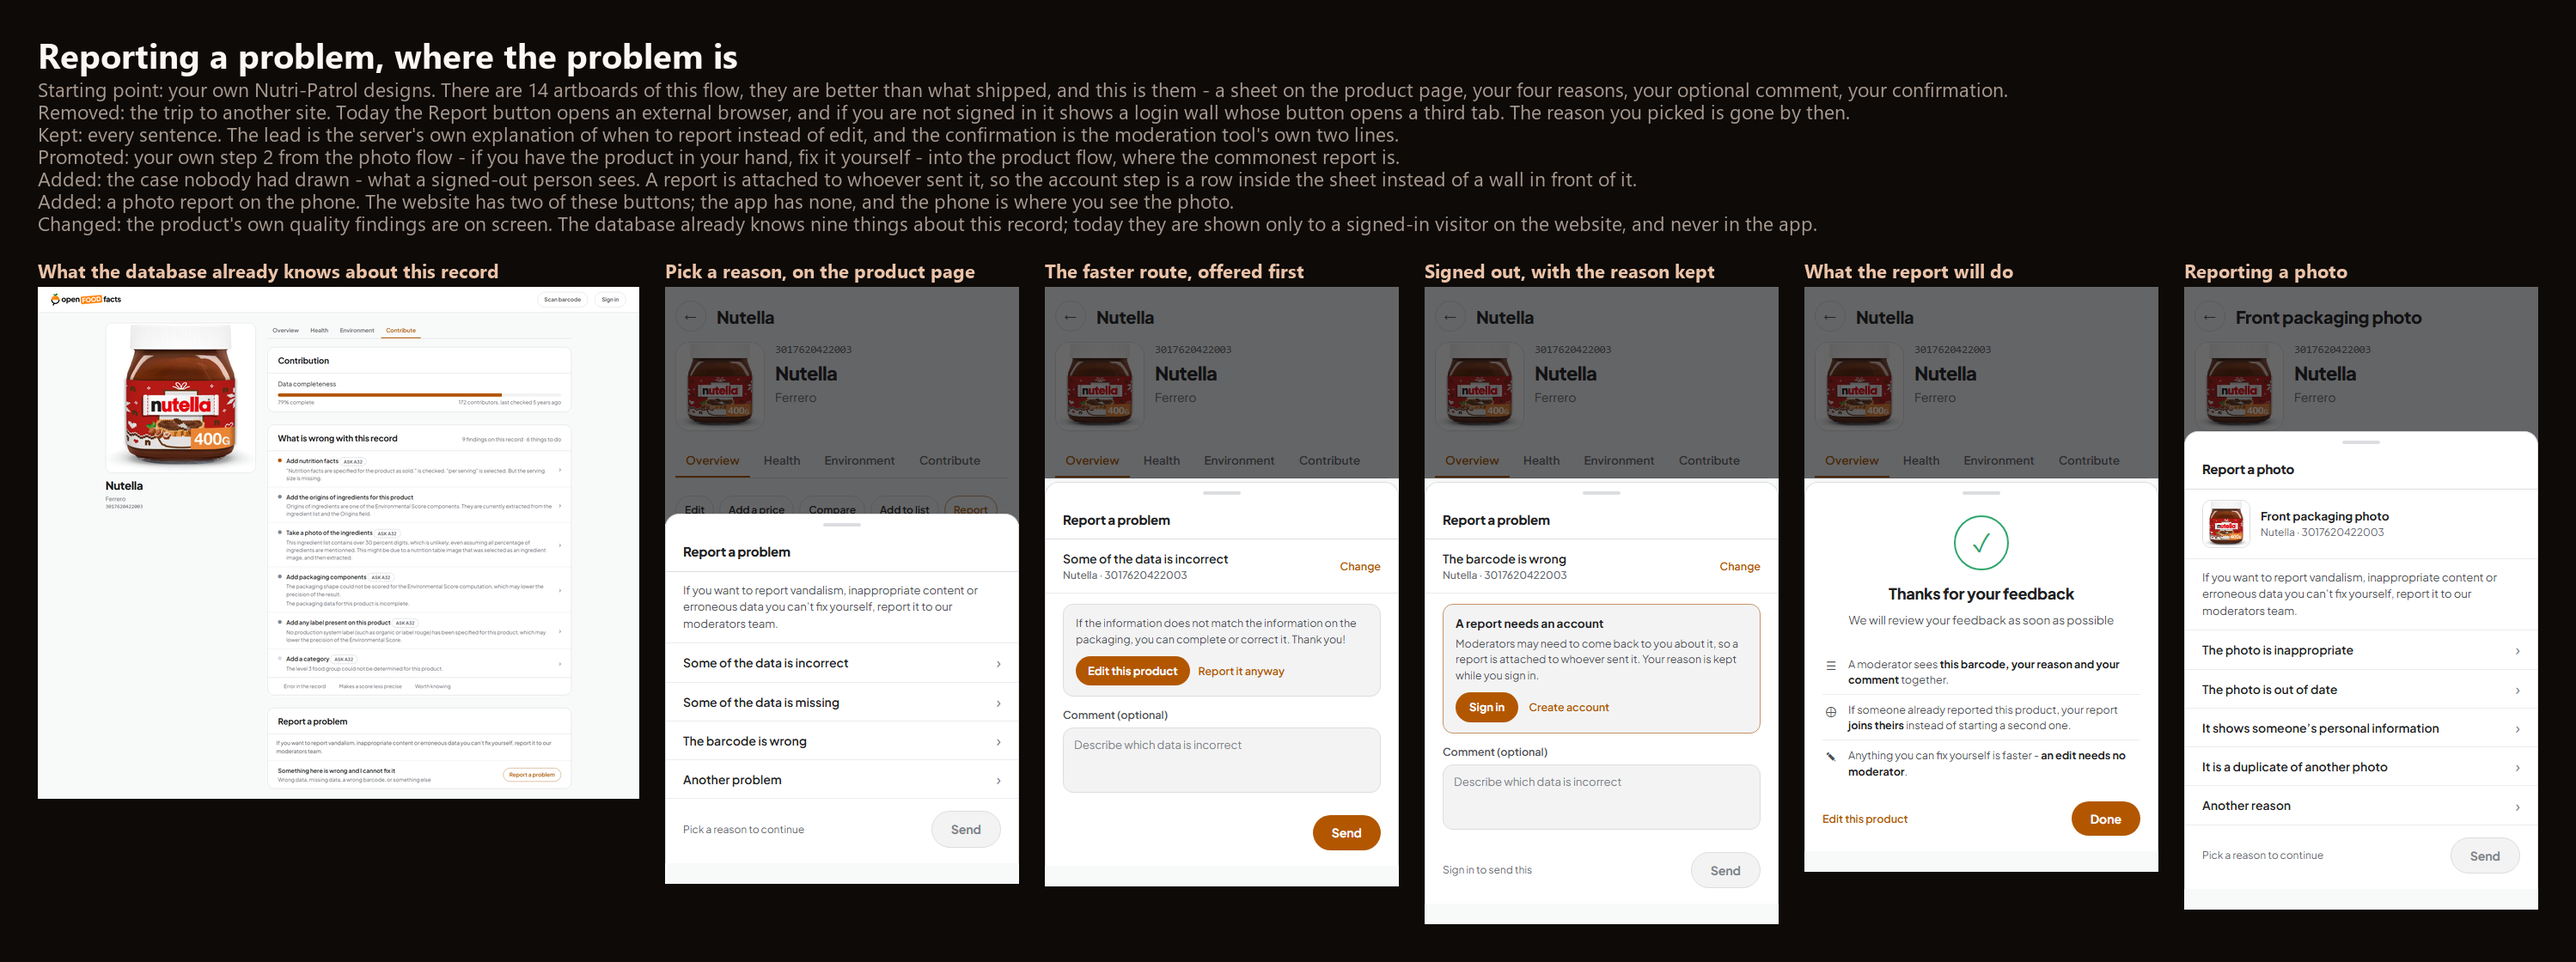
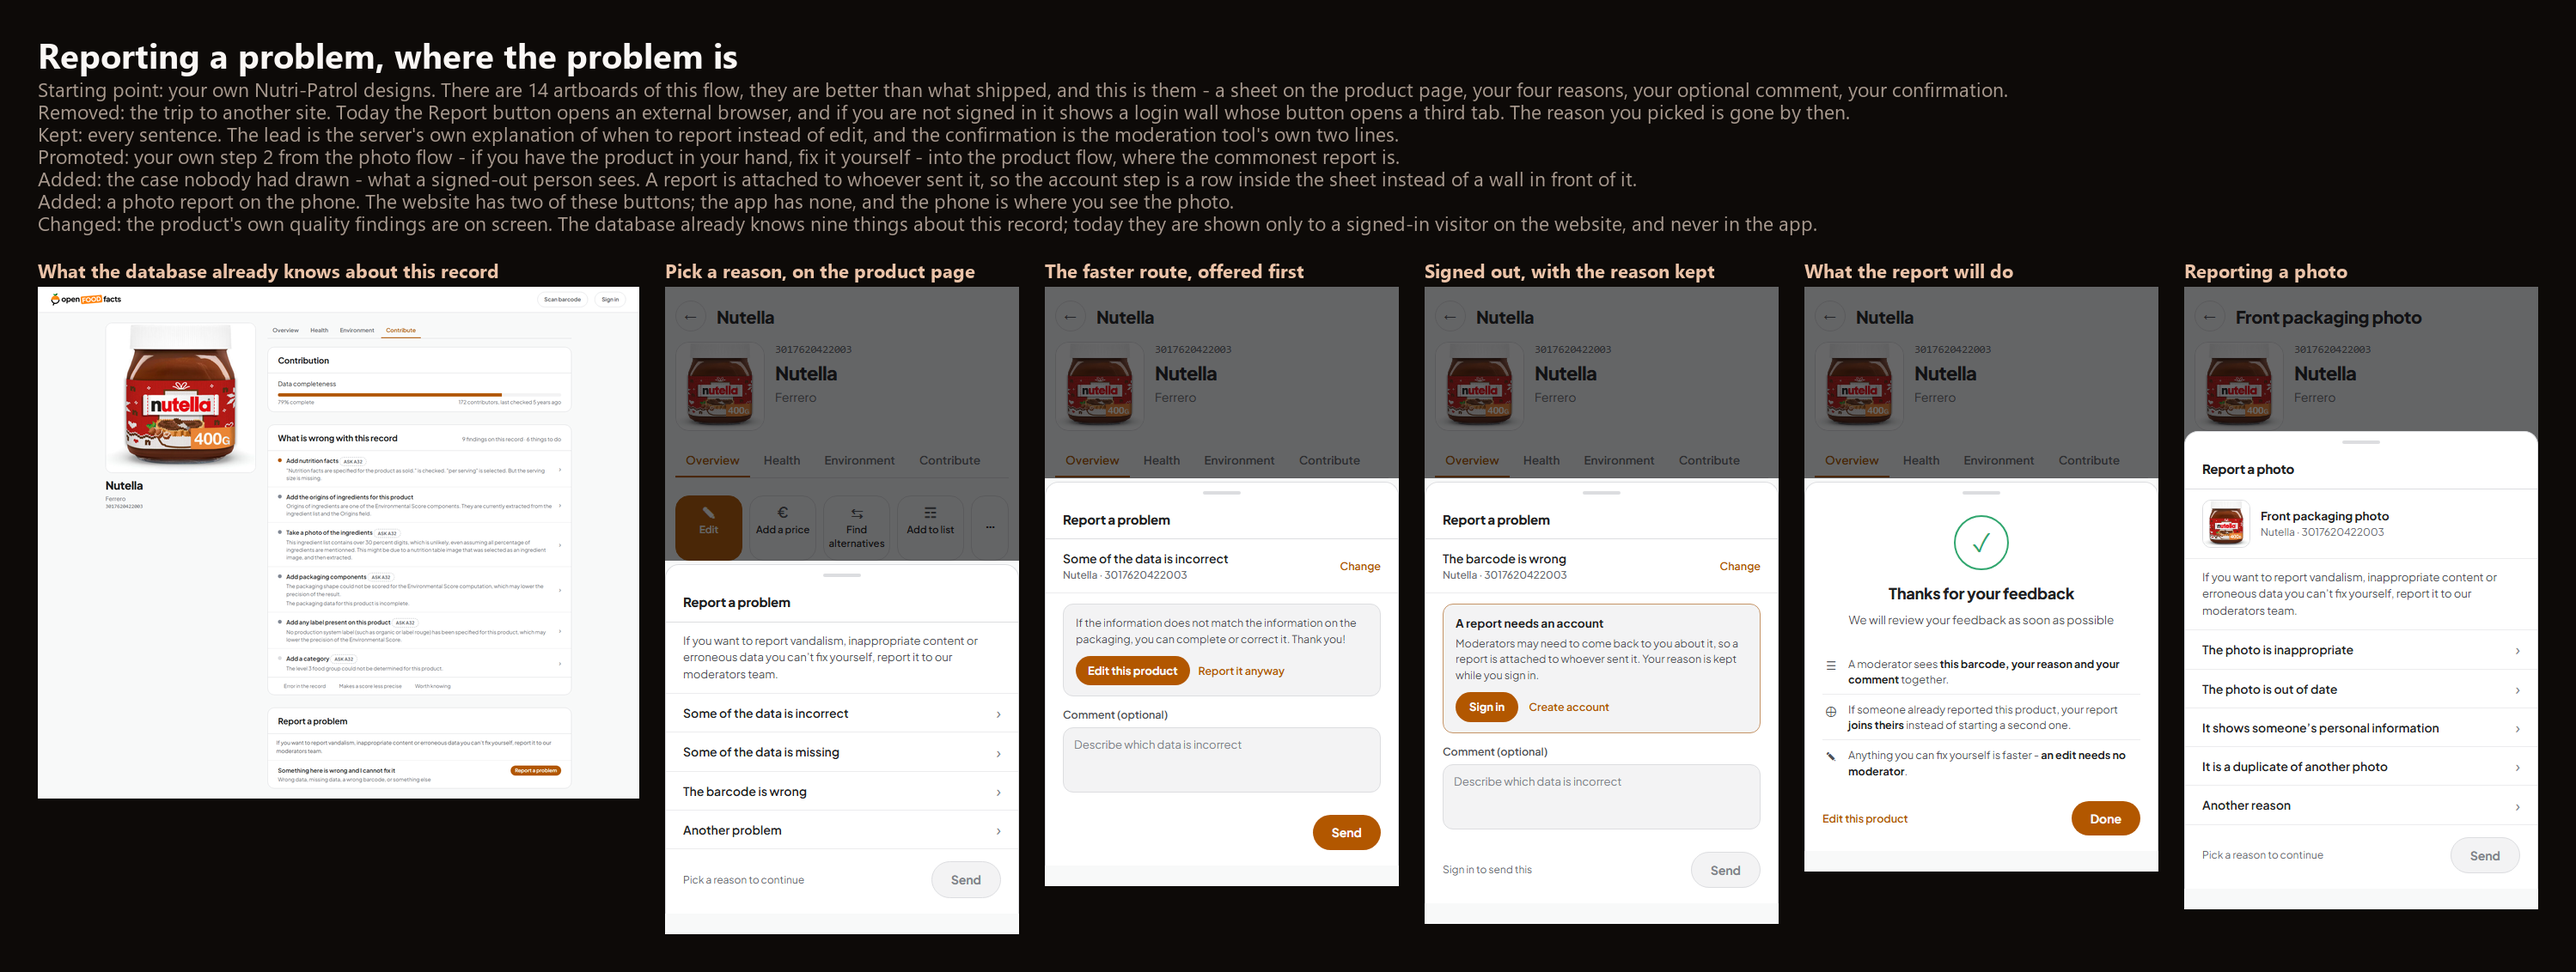
reporting a problem: the report sheet, its four states, the photo variant, and a record's own quality findings (family 22)

diff --git a/20-nutripatrol/mock.css b/20-nutripatrol/mock.css
@@ -8,18 +8,21 @@
 }
 .sbar h1 { flex: 1; min-width: 0; font-size: 20px; font-weight: 800; letter-spacing: -.3px; }
 
-.bd { padding: 0 12px; }
-.bd .ident { display: flex; gap: 12px; align-items: flex-start; }
-.bd .ident .photo { width: 104px; height: 104px; flex: none; }
-.bd .ident .txt { flex: 1; min-width: 0; }
-.bd .ident h1 { font-size: 22px; }
+.pbd { padding: 0 12px; }
+.pbd .ident { display: flex; gap: 12px; align-items: flex-start; }
+.pbd .ident .photo { width: 104px; height: 104px; flex: none; }
+.pbd .ident .txt { flex: 1; min-width: 0; }
+.pbd .ident h1 { font-size: 22px; }
 
 .grp { padding: 14px 24px; border-bottom: 1px solid var(--line-soft); }
 .grp:last-child { border-bottom: 0; }
 
-.act { display: flex; gap: 6px; margin: 14px 0 4px; overflow-x: auto; }
-.act .chip { flex: none; font-size: 12px; padding: 7px 10px; }
-.act .chip.hot { border-color: var(--action-edge); color: var(--peach); }
+.pfoot { display: flex; gap: 8px; margin-bottom: 20px; }
+.pact { flex: 1; min-width: 0; display: flex; flex-direction: column; align-items: center; gap: 4px; padding: 10px 4px; border: 1px solid var(--line); border-radius: var(--r); font-size: 11.5px; font-weight: 600; color: var(--txt); text-align: center; text-decoration: none; }
+.pact .g { font-size: 17px; line-height: 1; color: var(--muted2); }
+.pact.prime { background: var(--peach); border-color: var(--peach); color: var(--on-accent); }
+.pact.prime .g { color: var(--on-accent); }
+.pact.more { flex: 0 0 44px; justify-content: center; }
 
 .dim { position: relative; }
 .dim::after { content: ''; position: absolute; inset: 0; background: rgba(9, 10, 11, .62); }
@@ -71,14 +74,14 @@
 .sfooter .note { font-size: 12px; color: var(--muted); }
 .sfooter .quiet { font-size: 12.5px; font-weight: 600; color: var(--peach); }
 
-.done { text-align: center; padding: 22px 24px 8px; }
-.done .tick {
+.sent { text-align: center; padding: 22px 24px 8px; }
+.sent .tick {
   width: 64px; height: 64px; margin: 0 auto 14px; border-radius: 50%;
   display: flex; align-items: center; justify-content: center;
   font-size: 30px; color: var(--good); border: 2px solid var(--good);
 }
-.done h2 { font-size: 18px; font-weight: 800; letter-spacing: -.3px; }
-.done p { margin: 8px auto 0; max-width: 320px; font-size: 13.5px; color: var(--muted2); line-height: 1.5; }
+.sent h2 { font-size: 18px; font-weight: 800; letter-spacing: -.3px; }
+.sent p { margin: 8px auto 0; max-width: 320px; font-size: 13.5px; color: var(--muted2); line-height: 1.5; }
 
 .next { margin: 16px 20px 4px; text-align: left; }
 .next .nrow { display: flex; gap: 10px; padding: 8px 0; border-bottom: 1px solid var(--line-soft); }
@@ -87,12 +90,12 @@
 .next .nrow span { font-size: 12.5px; color: var(--muted2); line-height: 1.45; }
 .next .nrow span b { color: var(--txt); font-weight: 700; }
 
-.gate { margin: 12px 20px; padding: 12px 14px; border-radius: 12px; background: var(--card2); border: 1px solid var(--action-edge); }
-.gate b { display: block; font-size: 13.5px; font-weight: 700; margin-bottom: 4px; }
-.gate p { font-size: 12.5px; color: var(--muted2); line-height: 1.5; }
-.gate .acts { display: flex; align-items: center; gap: 12px; margin-top: 10px; }
-.gate .acts .btnpeach { padding: 8px 16px; font-size: 13px; }
-.gate .acts .quiet { font-size: 12.5px; font-weight: 600; color: var(--peach); }
+.needacct { margin: 12px 20px; padding: 12px 14px; border-radius: 12px; background: var(--card2); border: 1px solid var(--action-edge); }
+.needacct b { display: block; font-size: 13.5px; font-weight: 700; margin-bottom: 4px; }
+.needacct p { font-size: 12.5px; color: var(--muted2); line-height: 1.5; }
+.needacct .acts { display: flex; align-items: center; gap: 12px; margin-top: 10px; }
+.needacct .acts .btnpeach { padding: 8px 16px; font-size: 13px; }
+.needacct .acts .quiet { font-size: 12.5px; font-weight: 600; color: var(--peach); }
 
 .photorow { display: flex; gap: 12px; align-items: center; padding: 12px 20px; border-bottom: 1px solid var(--line-soft); }
 .photorow .thumb { width: 56px; height: 56px; flex: none; border-radius: 10px; overflow: hidden; background: var(--card2); border: 1px solid var(--line); }
@@ -101,17 +104,17 @@
 .photorow .t b { display: block; font-size: 13.5px; font-weight: 700; }
 .photorow .t i { font-style: normal; display: block; font-size: 12px; color: var(--muted); }
 
-.qhead { display: flex; align-items: baseline; gap: 12px; padding: 16px 24px; border-bottom: 1px solid var(--line); }
-.qhead h3 { font-size: 20px; font-weight: 700; letter-spacing: -.2px; }
-.qhead .sub { font-size: 13px; color: var(--muted); }
-.qhead .spacer { flex: 1; }
+.qhd { display: flex; align-items: baseline; gap: 12px; padding: 16px 24px; border-bottom: 1px solid var(--line); }
+.qhd h3 { font-size: 20px; font-weight: 700; letter-spacing: -.2px; }
+.qhd .sub { font-size: 13px; color: var(--muted); }
+.qhd .spacer { flex: 1; }
 
 .qitem { display: flex; align-items: flex-start; gap: 11px; padding: 12px 24px; border-bottom: 1px solid var(--line-soft); }
 .qitem:last-of-type { border-bottom: 0; }
 .qitem .m { width: 9px; height: 9px; border-radius: 50%; flex: none; margin-top: 6px; }
 .qitem .go { flex: none; align-self: center; color: var(--faint); font-size: 18px; line-height: 1; }
 
-.fix { display: inline-block; font-size: 13px; font-weight: 600; color: var(--peach); border: 1px solid var(--action-edge); border-radius: 999px; padding: 6px 14px; flex: none; align-self: center; }
+.fix { display: inline-block; font-size: 12px; font-weight: 600; color: var(--on-accent); background: var(--peach); border-radius: 999px; padding: 3px 10px; }
 
 .qitem .m.err { background: var(--orange); }
 .qitem .m.warn { background: var(--unknown-fill); }
@@ -147,5 +150,5 @@
 @media (max-width: 700px) {
   .pgrid { grid-template-columns: 1fr; }
   .modal { width: auto; left: 12px; right: 12px; transform: none; }
-  .qhead, .qgrp, .qlegend { padding-left: 14px; padding-right: 14px; }
+  .qhd, .qitem, .qlegend { padding-left: 14px; padding-right: 14px; }
 }

diff --git a/20-nutripatrol/report-reason.html b/20-nutripatrol/report-reason.html
@@ -17,7 +17,7 @@
       <a class="back" href="../01-product-page/product-nutella.html">&#8592;</a>
       <h1>Nutella</h1>
     </div>
-    <div class="bd">
+    <div class="pbd">
       <div class="ident">
         <div class="photo"><img src="https://images.openfoodfacts.org/images/products/301/762/042/2003/front_en.879.400.jpg" alt="Nutella"></div>
         <div class="txt">
@@ -29,12 +29,13 @@
       <nav class="tabs">
         <a class="on">Overview</a><a>Health</a><a>Environment</a><a>Contribute</a>
       </nav>
-      <div class="act">
-        <span class="chip">Edit</span>
-        <span class="chip">Add a price</span>
-        <span class="chip">Compare</span>
-        <span class="chip">Add to list</span>
-        <span class="chip hot">Report</span>
+      
+      <div class="pfoot">
+        <a class="pact prime" href="../13-product-edit/edit-hub.html"><span class="g">&#9998;</span>Edit</a>
+        <a class="pact" href="../16-prices/prices-add.html"><span class="g">&#8364;</span>Add a price</a>
+        <a class="pact" href="../10-compare/compare-ranked.html"><span class="g">&#8646;</span>Find alternatives</a>
+        <a class="pact" href="../08-lists/lists-switcher.html"><span class="g">&#9782;</span>Add to list</a>
+        <a class="pact more" href="../01-product-page/product-actions.html" title="Add a property, Share, Edit actions">&#8943;</a>
       </div>
     </div>
   </div>

diff --git a/20-nutripatrol/report-signedout.html b/20-nutripatrol/report-signedout.html
@@ -17,7 +17,7 @@
       <a class="back" href="../01-product-page/product-nutella.html">&#8592;</a>
       <h1>Nutella</h1>
     </div>
-    <div class="bd">
+    <div class="pbd">
       <div class="ident">
         <div class="photo"><img src="https://images.openfoodfacts.org/images/products/301/762/042/2003/front_en.879.400.jpg" alt="Nutella"></div>
         <div class="txt">
@@ -41,7 +41,7 @@
       <span class="edit">Change</span>
     </a>
 
-    <div class="gate">
+    <div class="needacct">
       <b>A report needs an account</b>
       <p>Moderators may need to come back to you about it, so a report is attached to whoever sent it. Your reason is kept while you sign in.</p>
       <div class="acts">

diff --git a/20-nutripatrol/report-sent.html b/20-nutripatrol/report-sent.html
@@ -17,7 +17,7 @@
       <a class="back" href="../01-product-page/product-nutella.html">&#8592;</a>
       <h1>Nutella</h1>
     </div>
-    <div class="bd">
+    <div class="pbd">
       <div class="ident">
         <div class="photo"><img src="https://images.openfoodfacts.org/images/products/301/762/042/2003/front_en.879.400.jpg" alt="Nutella"></div>
         <div class="txt">
@@ -35,7 +35,7 @@
   <div class="sheet">
     <div class="grab"><span class="bar"></span></div>
 
-    <div class="done">
+    <div class="sent">
       <div class="tick">&#10003;</div>
       <h2>Thanks for your feedback</h2>
       <p>We will review your feedback as soon as possible</p>

diff --git a/20-nutripatrol/quality-web.html b/20-nutripatrol/quality-web.html
@@ -43,7 +43,7 @@
       </div>
 
       <div class="tile">
-        <div class="qhead">
+        <div class="qhd">
           <h3>What is wrong with this record</h3>
           <span class="spacer"></span>
           <span class="sub">9 findings on this record &middot; 6 things to do</span>
@@ -100,7 +100,7 @@
       </div>
 
       <div class="tile">
-        <div class="qhead">
+        <div class="qhd">
           <h3>Report a problem</h3>
         </div>
         <div class="sbody">If you want to report vandalism, inappropriate content or erroneous data you can&rsquo;t fix yourself, report it to our moderators team.</div>

diff --git a/20-nutripatrol/report-web.html b/20-nutripatrol/report-web.html
@@ -33,7 +33,7 @@
         </nav>
         
         <div class="tile">
-          <div class="qhead">
+          <div class="qhd">
             <h3>What is wrong with this record</h3>
             <span class="spacer"></span>
             <span class="sub">9 findings on this record &middot; 6 things to do</span>
@@ -53,7 +53,7 @@
         </div>
 
         <div class="tile">
-          <div class="qhead">
+          <div class="qhd">
             <h3>Report a problem</h3>
             <span class="spacer"></span>
             <span class="sub">Nutella &middot; 3017620422003</span>

diff --git a/04-profile/profile-web.html b/04-profile/profile-web.html
@@ -222,7 +222,8 @@
       <div class="pc">
         <div class="shot"><img src="https://images.openfoodfacts.org/images/products/000/002/000/5733/front_en.596.400.jpg" alt=""></div>
         <div class="pcb">
-          <b>Walnusskerne</b>
+          
+          <b>Walnuts</b>
           <i>Alesto · 200g</i>
           <div class="scs">
             <span class="sc good"><i>Nutri-Score</i><b>A</b></span>

diff --git a/20-nutripatrol/photo-report.html b/20-nutripatrol/photo-report.html
@@ -17,7 +17,7 @@
       <a class="back" href="../13-product-edit/edit-photos.html">&#8592;</a>
       <h1>Front packaging photo</h1>
     </div>
-    <div class="bd">
+    <div class="pbd">
       <div class="ident">
         <div class="photo"><img src="https://images.openfoodfacts.org/images/products/301/762/042/2003/front_en.879.400.jpg" alt="Front packaging photo"></div>
         <div class="txt">

diff --git a/20-nutripatrol/report-comment.html b/20-nutripatrol/report-comment.html
@@ -17,7 +17,7 @@
       <a class="back" href="../01-product-page/product-nutella.html">&#8592;</a>
       <h1>Nutella</h1>
     </div>
-    <div class="bd">
+    <div class="pbd">
       <div class="ident">
         <div class="photo"><img src="https://images.openfoodfacts.org/images/products/301/762/042/2003/front_en.879.400.jpg" alt="Nutella"></div>
         <div class="txt">
